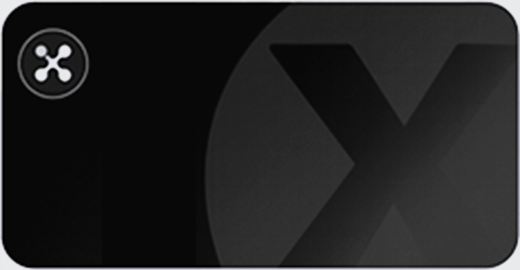
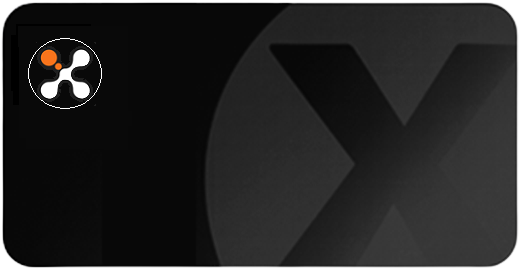
Name and image changes

diff --git a/pages/merchant/MerchantTitlebar.qml b/pages/merchant/MerchantTitlebar.qml
@@ -85,7 +85,7 @@ Rectangle {
                 anchors.horizontalCenter: parent.horizontalCenter
                 anchors.verticalCenter: parent.verticalCenter
 
-                source: "qrc:///images/moneroLogo_white.png"
+                source: "qrc:///images/xcashLogo_white.png"
             }
         }
 

diff --git a/components/ProcessingSplash.qml b/components/ProcessingSplash.qml
@@ -74,7 +74,7 @@ Rectangle {
                 width: 60
                 height: 60
                 anchors.centerIn: parent
-                source: "qrc:///images/monero-vector.svg"
+                source: "qrc:///images/xcash-vector.svg"
                 mipmap: true
             }
 
